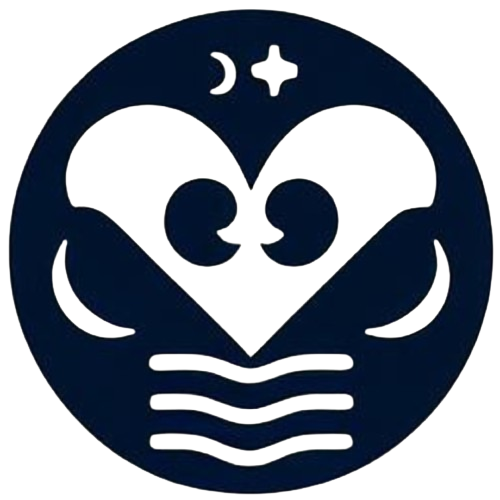
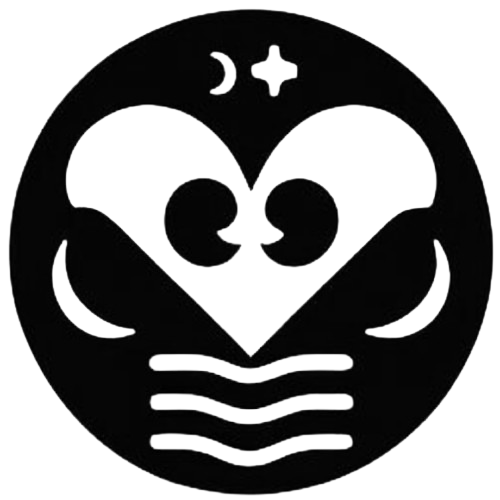
Updated types images for improved styling
The previous images had a strange colour which didn't match the style of
the website so this has been fixed now.

diff --git a/website/static/main.css b/website/static/main.css
@@ -63,15 +63,17 @@ body {
 
 #type-left {
   float: left;
-  width: 300px;
-  height: 300px;
+  width: 250px;
+  height: 250px;
   padding: 10px;
+  padding-right: 15px;
 }
 #type-right {
   float: right;
-  width: 300px;
-  height: 300px;
+  width: 250px;
+  height: 250px;
   padding: 10px;
+  padding-left: 15px;
 }
 #h3-left {
   text-align: left;
